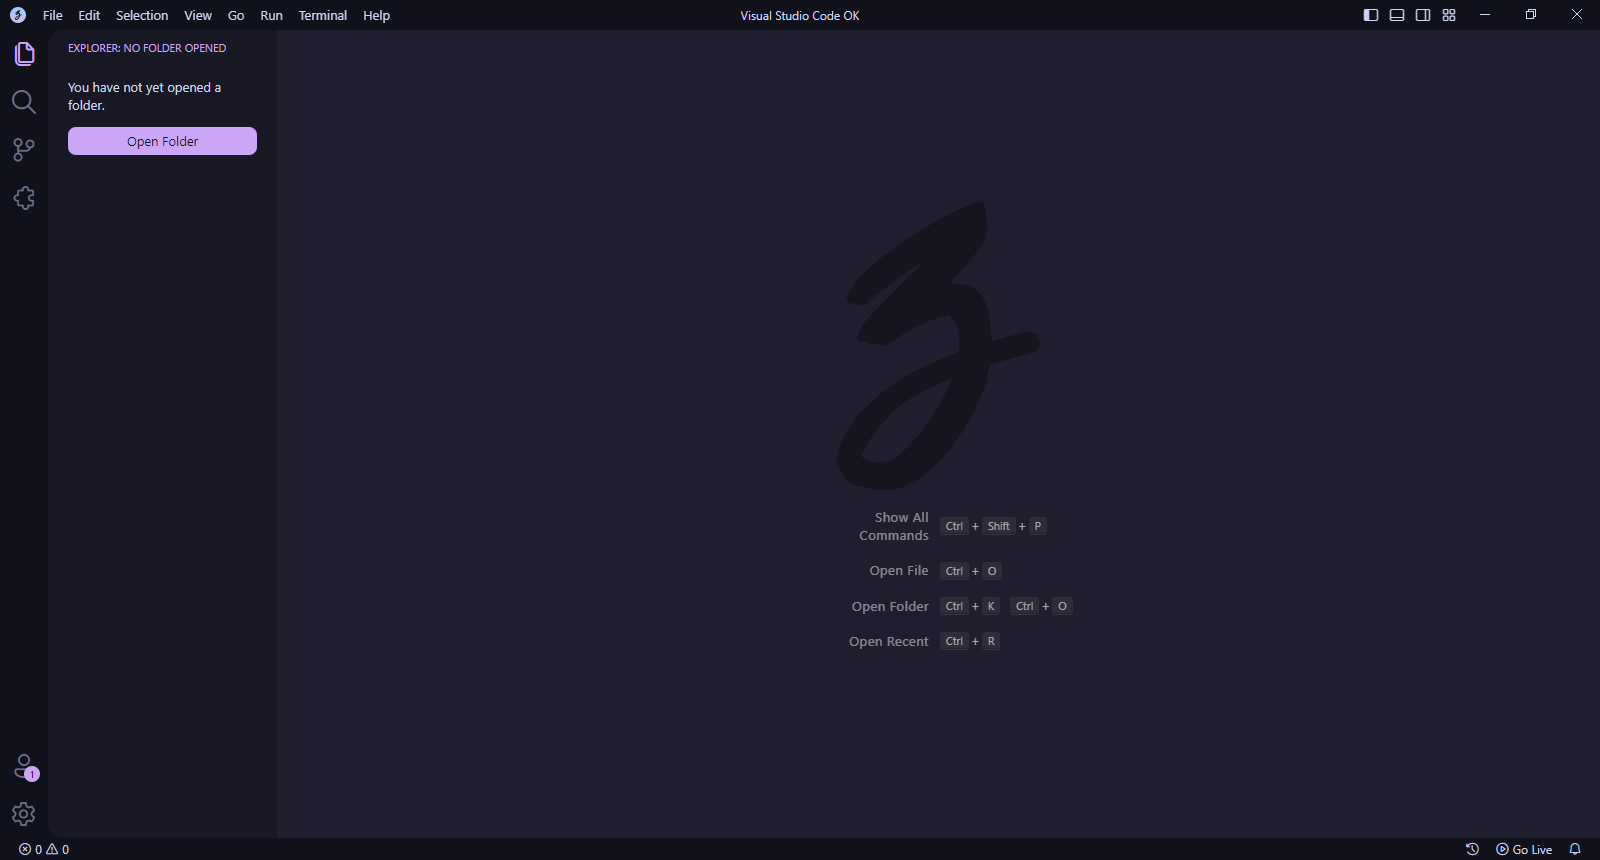
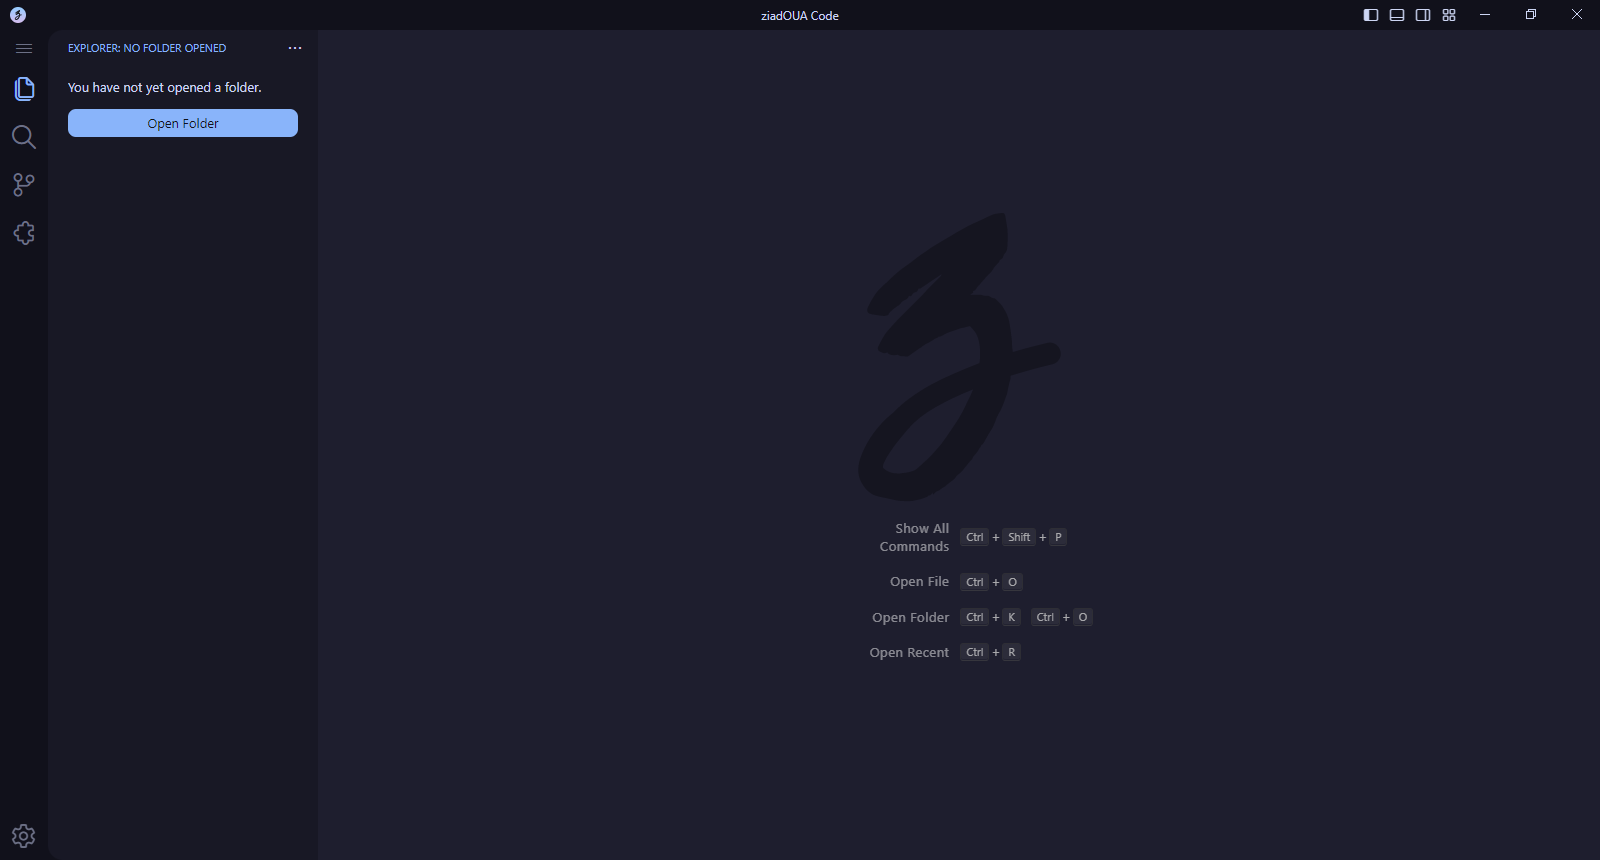
Updated the previews

diff --git a/res/example-patch/README.md b/res/example-patch/README.md
@@ -12,4 +12,4 @@ If you still use light themes, I suggest you using *Catppuccin Latte*.
 
 <img src="../preview/example-patch2.png">
 
-I also deactivated the breadcrumbs, and added hover transitions.
+I also deactivated the breadcrumbs, the menu and status bar for a cleaner UI.
